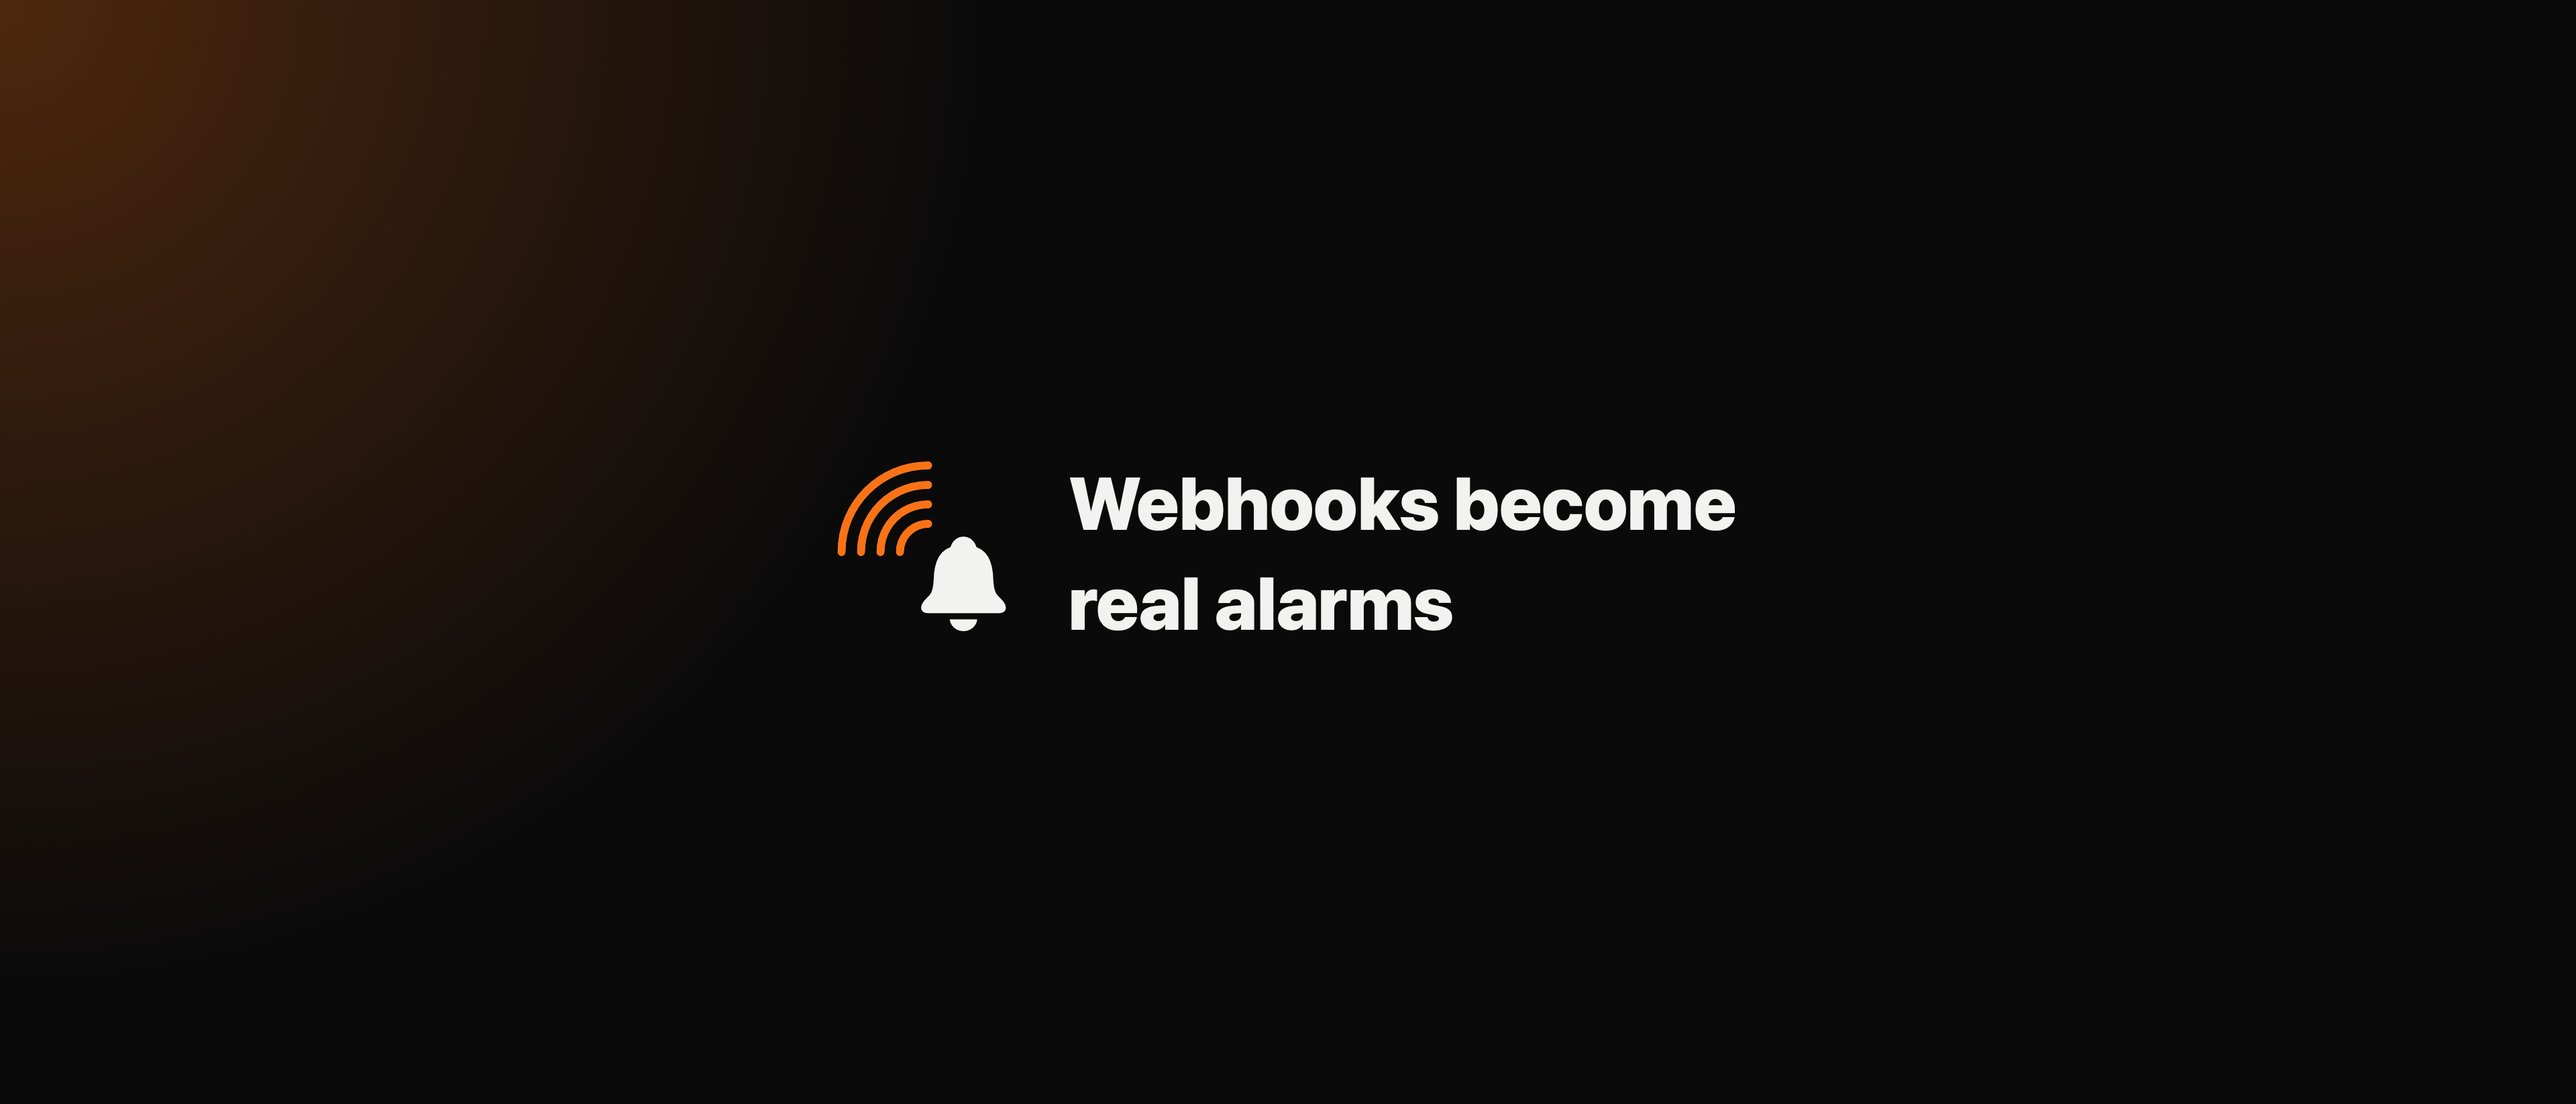
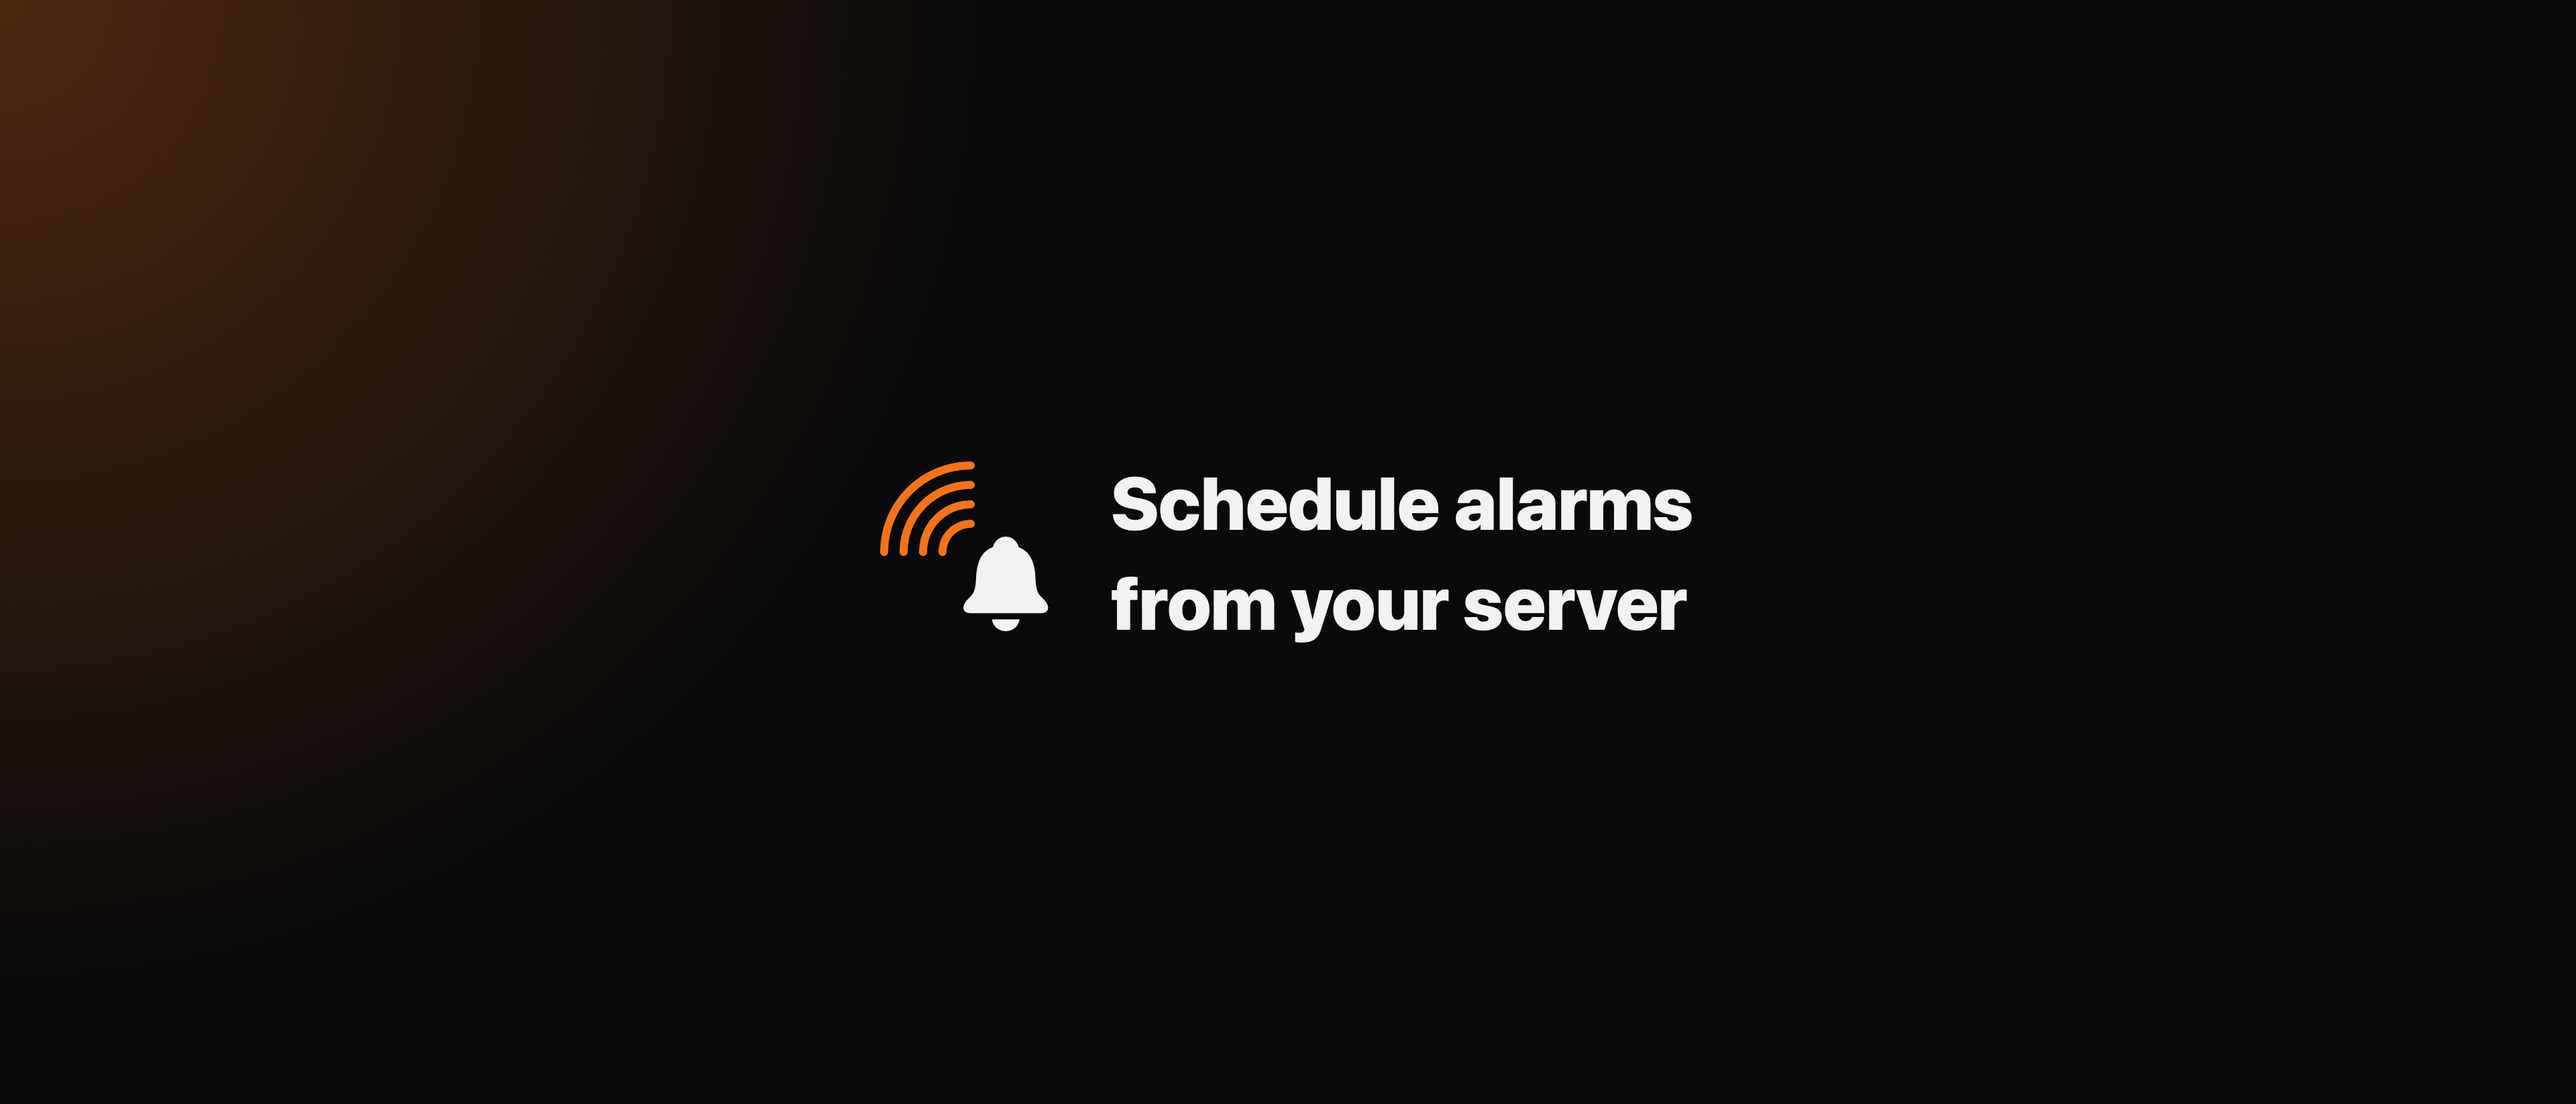
ヘッダー画像を更新しOGP画像の旧コピーを修正する

Changed region(s): [[0.3125, 0.4028, 0.6875, 0.5887]]

diff --git a/scripts/generate_header_creative/HeaderCreativeGenerator.swift b/scripts/generate_header_creative/HeaderCreativeGenerator.swift
@@ -165,7 +165,7 @@ struct OpenGraphImageView: View {
                         .font(.system(size: 96, weight: .heavy))
                         .foregroundStyle(Color.paper)
                     // LP の <title> と同じ一言 (docs/index.html)
-                    Text(verbatim: "Turn any webhook into\na real iPhone alarm")
+                    Text(verbatim: "Send a time via HTTP\nto set your iPhone alarm")
                         .font(.system(size: 36, weight: .medium))
                         .lineSpacing(6)
                         .foregroundStyle(Color.paper.opacity(0.7))
